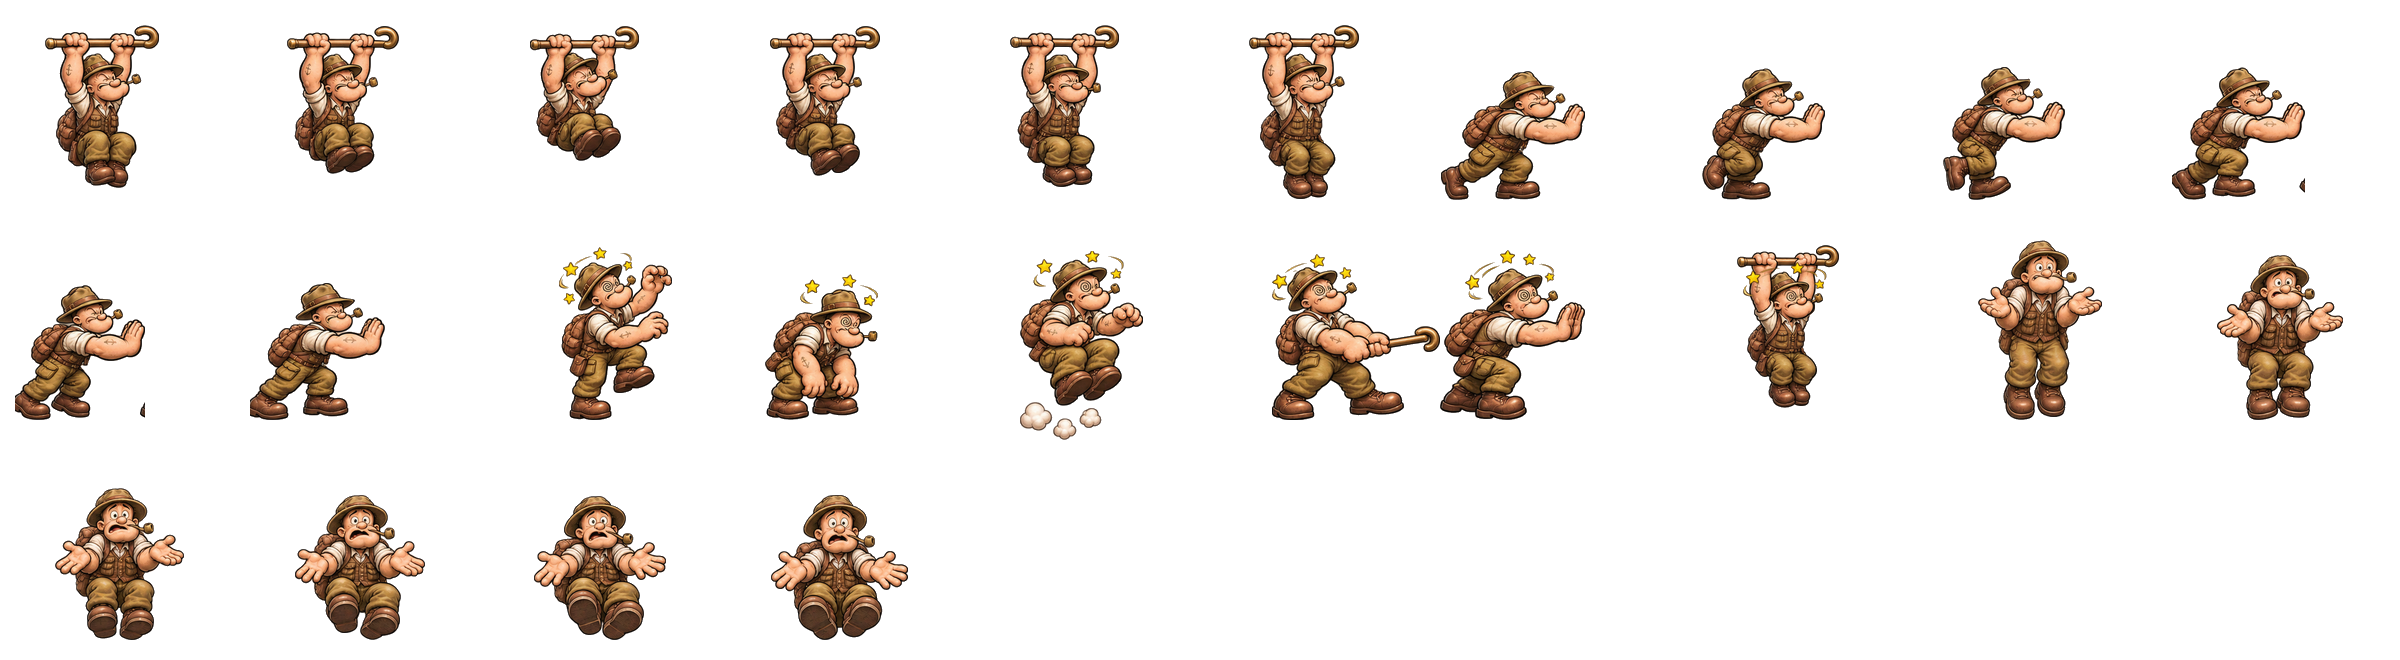
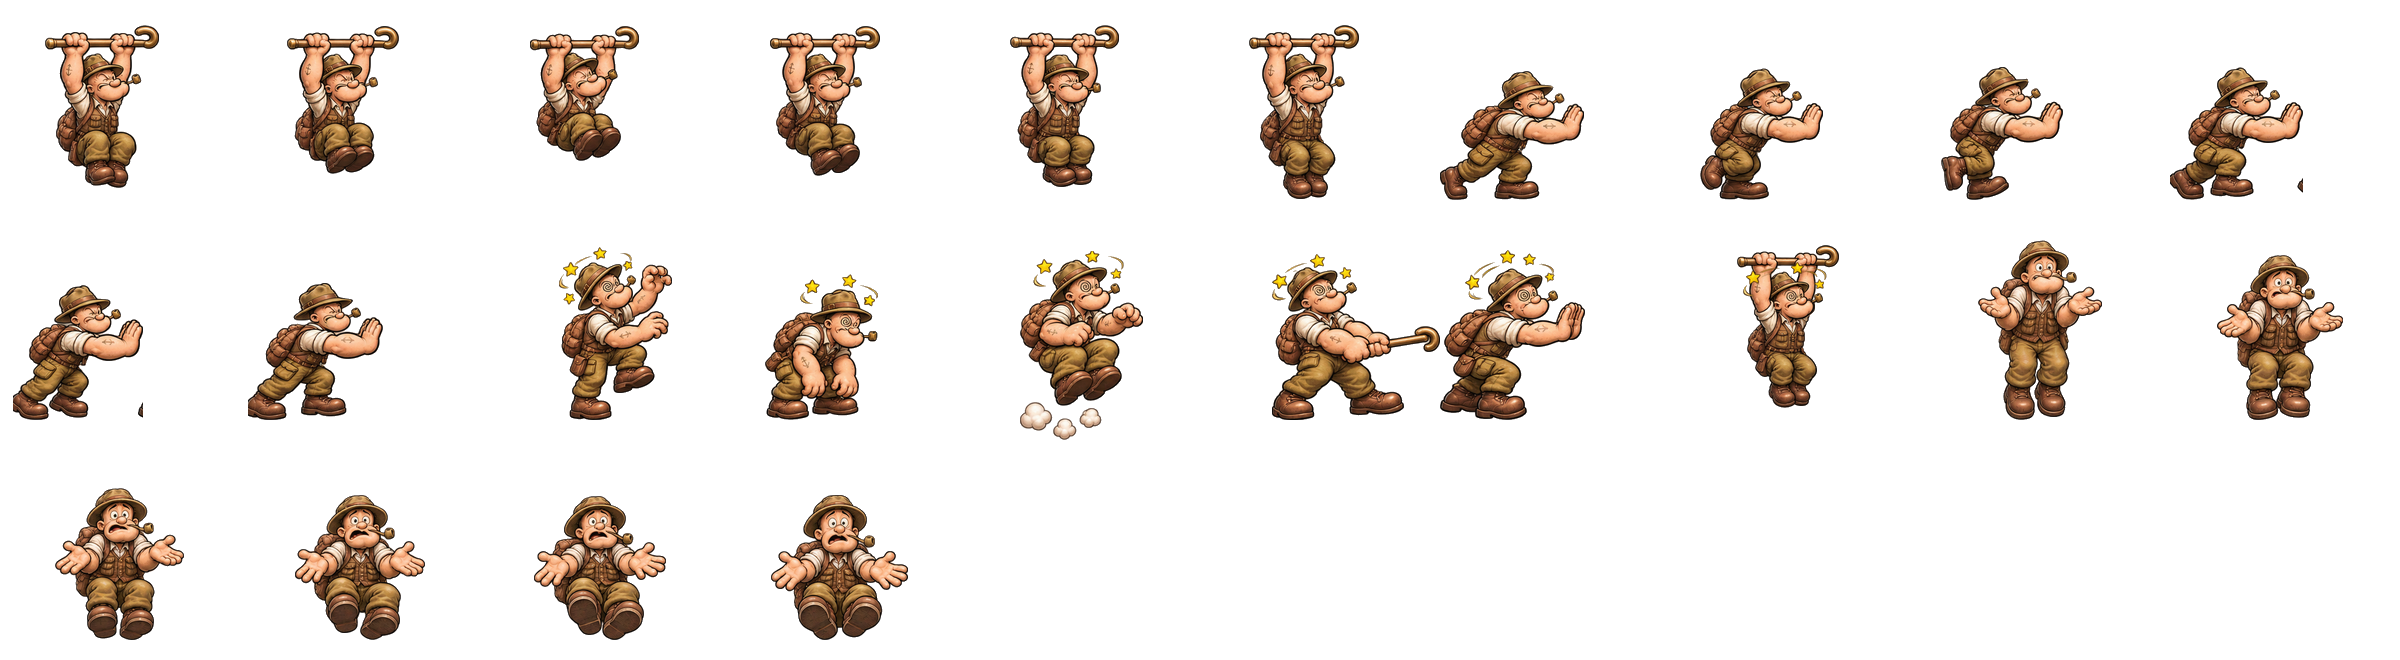
v0.76: yeni duruş, tırmanma (arkadan), pogo, eğik yürüme kareleri; uzun beklemede ayak vurma; oyuncu %10 büyük
Claude-Session: https://claude.ai/code/session_015fAnPKUucX6WRC71BPvNkG

diff --git a/js/ayarlar.js b/js/ayarlar.js
@@ -1,6 +1,6 @@
 // Popeye Tales (Atari) — oyun ayarları. Tüm uzunluklar dünya pikseli (1 karo = 32 px), süreler saniye.
 const CONFIG = {
-  surum: 'v0.75',
+  surum: 'v0.76',
   bayrakBoy: 57.6,      // kontrol noktası bayrağının boyu
   ustUsteGomme: 4,
   tasYukari: 3,         // kırılır taşlar (kasa hariç) yerde bu kadar yukarıda çizilir (bölümde tasZeminYukari varsa o)
@@ -29,10 +29,10 @@ const CONFIG = {
   oyuncu: {
     canMax: 3,
     yasam: 3,
-    boy: 60.19,         // ayakta görünür boy; animOlcek bunun üstüne çarpılır, çarpışma gövdesi değişmez
+    boy: 66.21,         // ayakta görünür boy (v0.76: %10 büyütüldü); animOlcek bunun üstüne çarpılır, çarpışma gövdesi değişmez
     kare: { w: 176, h: 141, ayakY: 125, ayakBoy: 117 },   // assets/oyuncu/oyuncu.png hücresi
     kare2: { w: 240, h: 220, ayakY: 200 },                // assets/oyuncu/oyuncu2.png hücresi (aynı ölçek)
-    kancaY: 59,         // asılırken bastonun ayaklardan yüksekliği; bu hizada taşa değince asılır
+    kancaY: 65,         // asılırken bastonun ayaklardan yüksekliği; bu hizada taşa değince asılır
     govdeG: 18,         // çarpışma gövdesi genişliği
     govdeY: 42,         // ayakta gövde yüksekliği — 1 karelik aralığa sığmaz
     govdeEgik: 26,      // eğikken gövde yüksekliği — 1 karelik aralıktan eğilerek geçilir

diff --git a/js/sahneler/BootSahnesi.js b/js/sahneler/BootSahnesi.js
@@ -56,14 +56,15 @@ class BootSahnesi extends Phaser.Scene {
       this.anims.create({ key, frames: kareler.map(frame => ({ key: doku, frame })), frameRate, repeat }));
     // assets/oyuncu/oyuncu.png
     tanimla('oyuncu', [
-      ['dur',      aralik(0, 3),   5,  -1],  // bekleme
+      ['dur',      aralik(60, 65), 7,  -1],  // bekleme (v0.76 araclar/oyuncuYeni.py)
+      ['ayakVur',  aralik(74, 81), 10, -1],  // uzun beklemede ayak vurma
       ['kos',      aralik(4, 9),   12, -1],
       ['zipla',    [10, 11, 12],   14, 0],   // çömel → kalk → tepe
       ['dus',      [13],           1,  0],
       ['in',       [14],           1,  0],   // yere iniş (toz)
       ['sersem',   aralik(15, 17), 10, -1],  // yerde ayaktayken hasar
       ['vur',      aralik(24, 28), 22, 0],   // baston vuruşu
-      ['tirman',   aralik(29, 32), 8,  -1],
+      ['tirman',   aralik(66, 73), 8,  -1],
       ['uzat',     [41, 42, 43],   14, 0],   // baston kancası uzatma
       ['cek',      aralik(44, 48), 10, -1],
       ['pogoHava', [49],           1,  0],

diff --git a/js/sistemler/oyuncu.js b/js/sistemler/oyuncu.js
@@ -490,7 +490,11 @@ Object.assign(OyunSahnesi.prototype, {
     else if (this.inisZaman > 0) a = 'in';
     else if (this.itiyor) { a = 'it'; durdur = Math.abs(b.velocity.x) <= 10; }
     else if (Math.abs(b.velocity.x) > 10) a = 'kos';
-    else a = 'dur';
+    else {   // ayakta bekleme; 5 sn'den uzun beklerse sabırsızca ayak vurur
+      this.durSure = (this.durSure || 0) + this.game.loop.delta / 1000;
+      a = this.durSure > 5 ? 'ayakVur' : 'dur';
+    }
+    if (a !== 'dur' && a !== 'ayakVur') this.durSure = 0;
     if (!p.anims.currentAnim || p.anims.currentAnim.key !== a) p.play(a);
     this.adimSesi(a, durdur);
     this.gorselOlcek(CONFIG.oyuncu.animOlcek[a] || 1);

diff --git a/araclar/oyuncuYeni.py b/araclar/oyuncuYeni.py
@@ -1,0 +1,115 @@
+# Oyuncu yeni kareleri (v0.76): duruş (GIF), tırmanma (GIF, arkadan), bastonla zıplama (pogo) ve eğik yürüme.
+# Taban: assets/kaynak/oyuncu_taban.png (eski oyuncu.png, 10×6 hücre 176×141, ayak çizgisi y=125).
+# Çıktı: assets/oyuncu/oyuncu.png — 10×9 hücre (74–81 uzun beklemede ayak vurma). Değişen kareler:
+#   60–65 dur (oyuncu_dur.gif), 66–73 tirman (oyuncu_tirman.gif), 49 pogoHava + 50–52 pogoSek (oyuncu_pogo.png),
+#   53–57 egil (oyuncu_egil.png). Eski 0–3 ve 29–32 boşaltılır.
+# Her yeni animasyon eski karelerinin piksel boyuna ölçeklenir; şapka ortası eski şapka ortasına, alt kenar ayak
+# çizgisine hizalanır. GIF'ler tek kutuyla kesilir (karedeki doğal iniş-çıkış korunur).
+import numpy as np
+from PIL import Image, ImageSequence
+from scipy import ndimage
+KOK = __file__.rsplit('/araclar/', 1)[0]
+W, H, AY, SUT = 176, 141, 125, 10
+src = open(KOK + '/araclar/dusmanKes.py').read()
+temizle_kod = src[src.index('def temizle'):src.index('KAYNAK = {')]
+exec(temizle_kod.replace("KOK + '/assets/kaynak/' + ad", "KOK + '/assets/kaynak/' + ad"))
+
+taban = np.array(Image.open(KOK + '/assets/kaynak/oyuncu_taban.png').convert('RGBA'))
+out = np.zeros((H * 9, W * SUT, 4), np.uint8); out[:taban.shape[0]] = taban
+def hucre(i): return (i // SUT) * H, (i % SUT) * W
+def eski(i):
+    y, x = hucre(i); return taban[y:y + H, x:x + W]
+def kutu(a):
+    b = a[:, :, 3] > 150; ys = np.where(b.any(1))[0]; xs = np.where(b.any(0))[0]
+    return ys[0], ys[-1], xs[0], xs[-1]
+def sapka(a):   # en üst 25 satırın yatay ortası
+    b = a[:, :, 3] > 150; t = np.where(b.any(1))[0][0]; xs = np.where(b[t:t + 25].any(0))[0]
+    return (xs[0] + xs[-1]) / 2
+def lekesiz(a, en=150):
+    a = a.copy(); a[a[:, :, 3] < 40] = 0
+    lab, n = ndimage.label(a[:, :, 3] > 0)
+    if n > 1:
+        bo = ndimage.sum(np.ones(lab.shape), lab, range(1, n + 1))
+        for i, v in enumerate(bo):
+            if v < en: a[lab == i + 1] = 0
+    return a
+def bosalt(i):
+    y, x = hucre(i); out[y:y + H, x:x + W] = 0
+def koy(i, a, olcek, hx, alt):
+    # a: kesilmiş kare, olcek: ölçek, hx: a içindeki hizalama x'i (şapka ortası), alt: a içindeki alt hiza satırı
+    f = Image.fromarray(a); f = f.resize((max(1, round(f.width * olcek)), max(1, round(f.height * olcek))), Image.LANCZOS)
+    x0 = int(round(HEDEF_X - hx * olcek)); y0 = int(round(AY - (alt + 1) * olcek))
+    cell = Image.new('RGBA', (W, H)); cell.paste(f, (x0, y0), f)
+    c = np.array(cell); c[c[:, :, 3] < 30] = 0
+    y, x = hucre(i); out[y:y + H, x:x + W] = c
+
+def gif(ad):
+    im = Image.open(KOK + '/assets/kaynak/' + ad)
+    fr = [lekesiz(np.array(f.convert('RGBA'))) for f in ImageSequence.Iterator(im)]
+    b = np.zeros(fr[0].shape[:2], bool)
+    for f in fr: b |= f[:, :, 3] > 150
+    ys = np.where(b.any(1))[0]; xs = np.where(b.any(0))[0]
+    return [f[ys[0]:ys[-1] + 1, xs[0]:xs[-1] + 1] for f in fr]
+def serit(ad, bosluk=10):
+    im, A = temizle(ad); im = lekesiz(im, 400)
+    col = (im[:, :, 3] > 150).any(0); segs = []; x = 0
+    while x < len(col):
+        if col[x]:
+            s = x
+            while x < len(col) and (col[x] or col[x:x + bosluk].any()): x += 1
+            segs.append((s, x))
+        else: x += 1
+    out_ = []
+    for s, e in segs:
+        a = im[:, s:e]; ys = np.where((a[:, :, 3] > 150).any(1))[0]
+        if e - s > 40: out_.append(a[ys[0]:ys[-1] + 1])
+    return out_
+
+def anim(yeni, eskiler, hedefler, gif_mi, olcek_kare=None):
+    global HEDEF_X
+    eb = max(kutu(eski(i))[1] - kutu(eski(i))[0] + 1 for i in eskiler)
+    HEDEF_X = np.mean([sapka(eski(i)) for i in eskiler])
+    ref = yeni[olcek_kare] if olcek_kare is not None else None
+    if gif_mi:
+        nb = max(kutu(a)[1] - kutu(a)[0] + 1 for a in yeni)
+        o = eb / nb; hx = sapka(yeni[0])
+        for i, a in zip(hedefler, yeni): koy(i, a, o, hx, a.shape[0] - 1)
+    else:
+        nb = (kutu(ref)[1] - kutu(ref)[0] + 1) if ref is not None else max(kutu(a)[1] - kutu(a)[0] + 1 for a in yeni)
+        o = eb / nb
+        for i, a in zip(hedefler, yeni):
+            alt = kutu(a)[1] if ref is None else kutu(a)[0] + kutu(ref)[1] - kutu(ref)[0]   # pogo: şapka hizası sabit
+            koy(i, a, o, sapka(a), alt)
+    return o
+
+for i in list(range(0, 4)) + list(range(29, 33)) + list(range(49, 58)): bosalt(i)
+print('dur', anim(gif('oyuncu_dur.gif'), [0, 1, 2, 3], range(60, 66), True))
+print('tirman', anim(gif('oyuncu_tirman.gif'), [29, 30, 31, 32], range(66, 74), True))
+pogo = serit('oyuncu_pogo.png')
+assert len(pogo) == 4, len(pogo)
+# eski pogoHava (49) boyuna göre: 1. kare (efektsiz) ölçü; şapka üstü her karede aynı satırda
+print('pogo', anim(pogo, [49], [49, 50, 51, 52], False, olcek_kare=0))
+def bilesenler(ad):   # kareler birbirine değiyorsa: her büyük parça bir kare, küçük parçalar en yakın kareye
+    im, A = temizle(ad); b = im[:, :, 3] > 150
+    lab, n = ndimage.label(b); bo = ndimage.sum(b, lab, range(1, n + 1))
+    buyuk = [i + 1 for i, v in enumerate(bo) if v > 2000]
+    mer = {i: np.mean(np.where(lab == i)[1]) for i in buyuk}
+    sira = sorted(buyuk, key=lambda i: mer[i]); kareler = []
+    sl = ndimage.find_objects(lab)
+    for i in sira:
+        m = lab == i
+        for j in range(1, n + 1):
+            if j in buyuk or bo[j - 1] < 150: continue
+            cx = (sl[j - 1][1].start + sl[j - 1][1].stop) / 2
+            if min(sira, key=lambda k: abs(mer[k] - cx)) == i: m |= lab == j
+        a = im.copy(); a[~m] = 0
+        ys = np.where(m.any(1))[0]; xs = np.where(m.any(0))[0]
+        kareler.append(a[ys[0]:ys[-1] + 1, xs[0]:xs[-1] + 1])
+    return kareler
+egil = bilesenler('oyuncu_egil.png')
+assert len(egil) == 5, len(egil)
+print('egil', anim(egil, [53, 54, 55, 56, 57], range(53, 58), False))
+# v0.76: uzun beklemede ayak vurma (oyuncu_ayakVur.gif) → 74.. ; duruşla aynı ölçek ve hiza
+ayak = gif('oyuncu_ayakVur.gif')
+print('ayakVur', anim(ayak, [0, 1, 2, 3], range(74, 74 + len(ayak)), True), len(ayak))
+Image.fromarray(out).save(KOK + '/assets/oyuncu/oyuncu.png', optimize=True)

diff --git a/araclar/oyuncuEk.py b/araclar/oyuncuEk.py
@@ -50,7 +50,7 @@ def baston(arr):   # bastonun (figürün en üst 14 satırı) üstü ve sağ ucu
     return t, np.where(b[t:t + 14].any(0))[0][-1]
 ASILI = [0, 1, 2, 3, 4, 5, 17]
 ITME = [6, 7, 8, 9, 10, 11, 16]
-ON_KENAR = C + 9 / (60.19 / 117 * 0.77) + 2   # boy (CONFIG.oyuncu.boy) ve itme ölçeği (animOlcek.it) değişirse güncelle   # gövde yarı genişliği (9 px) hücre pikseline çevrildi
+ON_KENAR = C + 9 / (66.21 / 117 * 0.77) + 2   # boy (CONFIG.oyuncu.boy) ve itme ölçeği (animOlcek.it) değişirse güncelle   # gövde yarı genişliği (9 px) hücre pikseline çevrildi
 ASILI_BOY = max(round(kareler[i][0].shape[0] * OLCEK * (kareler[i][2] if len(kareler[i]) > 2 else 1)) for i in ASILI[:6])
 KANCA_X = C + 38   # v0.43: baston ucu gövdenin ~5.5 px önünde (v0.38'deki ~10.6 px'ten 5 px geri) → kanca taşın içine girer
 for n, k in enumerate(kareler):
